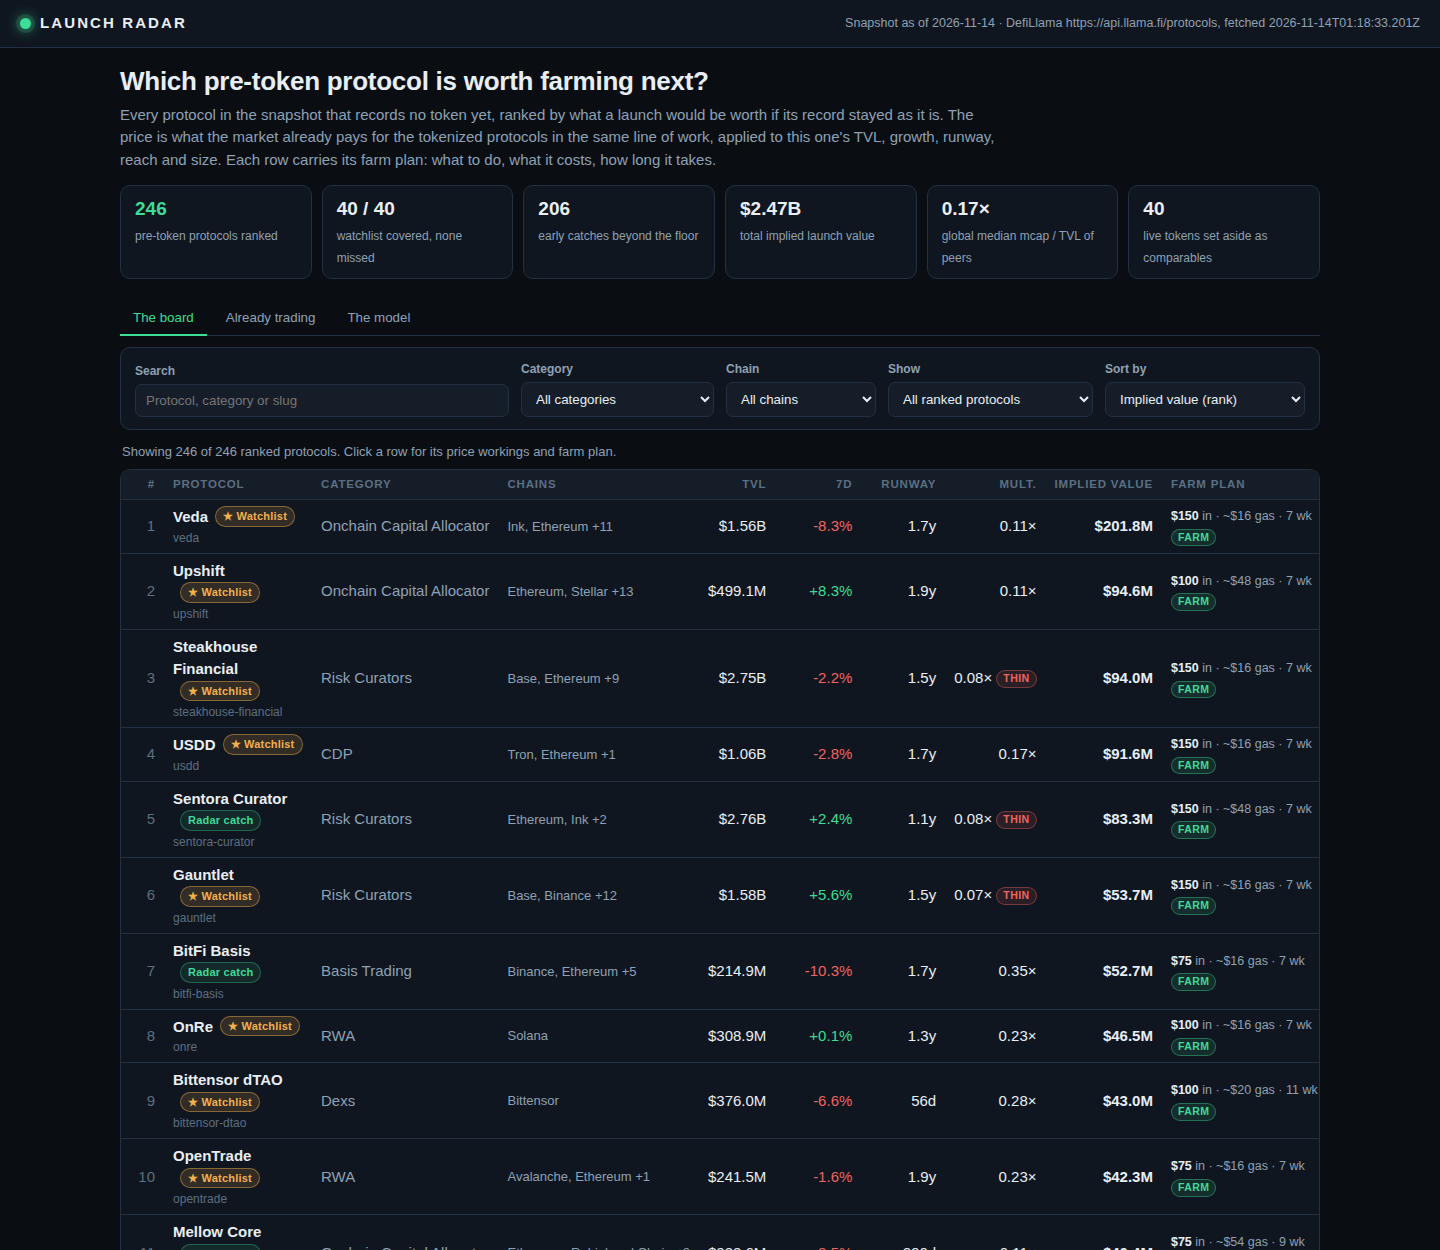
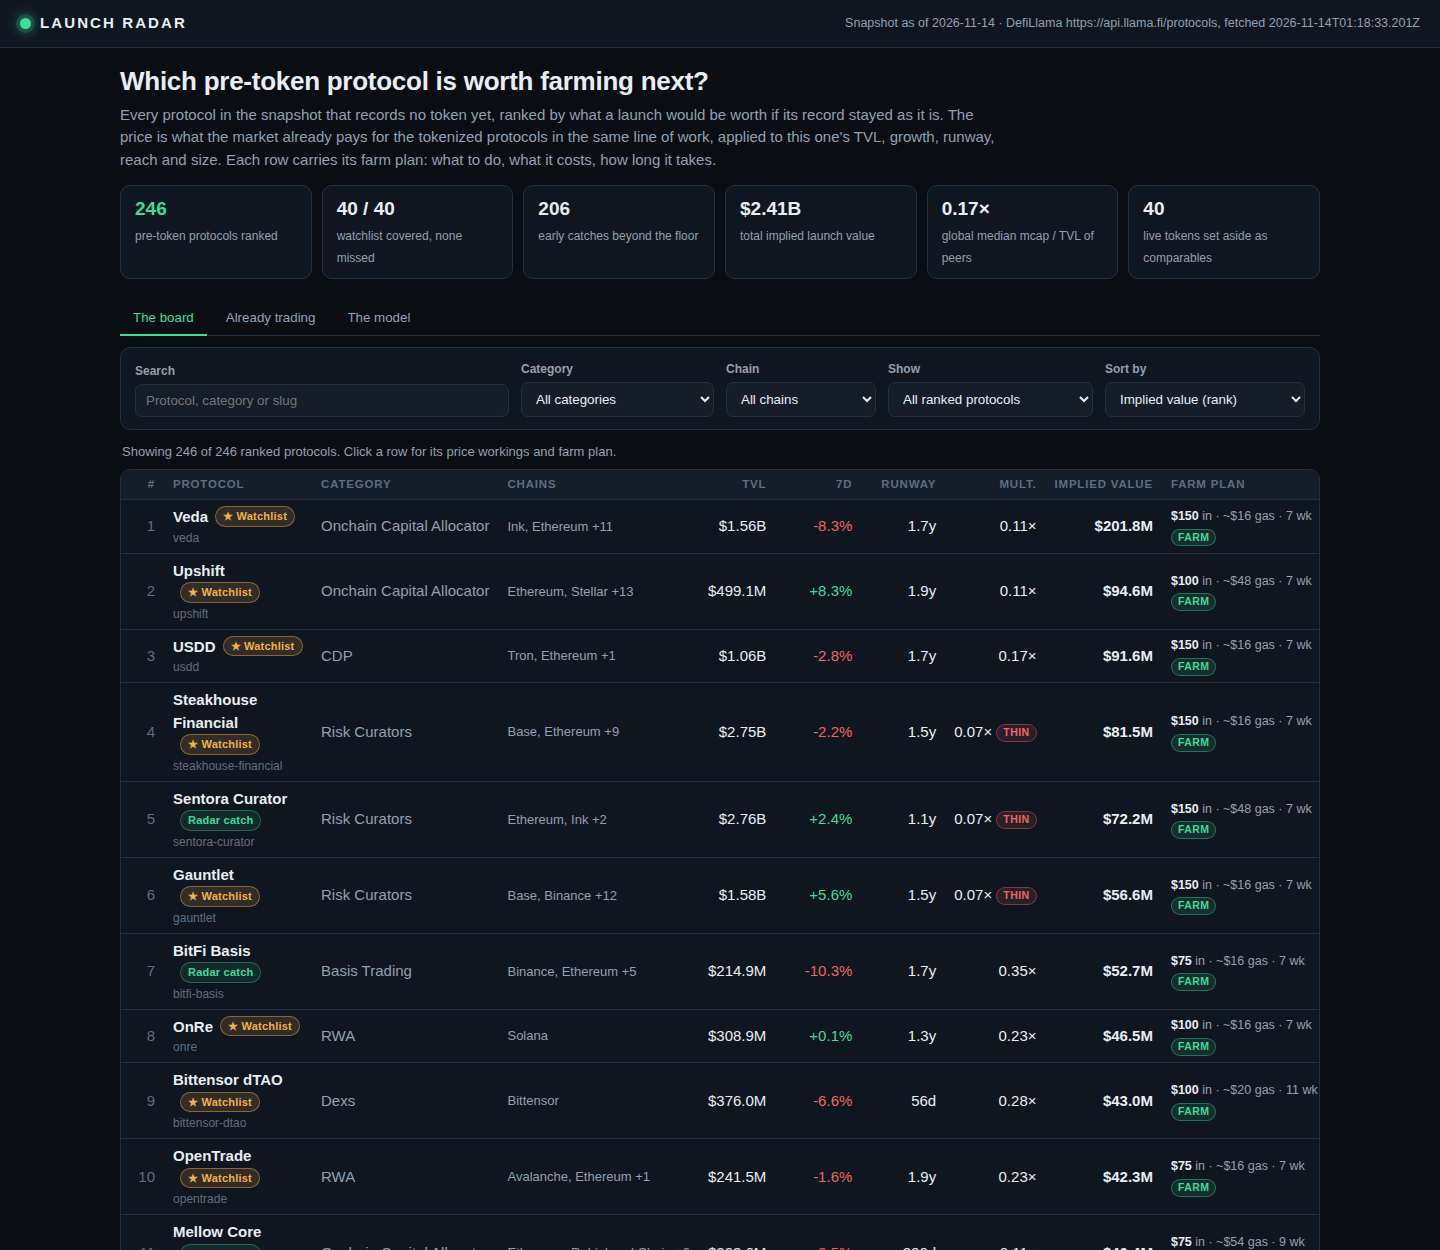
comps-5: thin-category neighbour pool widened from 8 to 12, validated on three seeded split sets (one never used for selection), dashboard prose and screenshots refreshed

diff --git a/lib/model.ts b/lib/model.ts
@@ -14,10 +14,11 @@
 //                count (shrink K = 6) and clamped to [0.03, 1.20]. A category with fewer than 3
 //                peers cannot carry its own median; comps-3 then priced it at the bare global
 //                median, so the board's largest rows rested on no local evidence at all.
-//                comps-4 prices a thin category from the 8 tokenized protocols nearest the
+//                comps-4 prices a thin category from the 12 tokenized protocols nearest the
 //                protocol in TVL, whatever they do — the market's price for a protocol's size
 //                is real evidence about a protocol of that size — blended half-and-half with
-//                the global median in log space.
+//                the global median in log space. (The pool was 8 when comps-4 shipped;
+//                comps-5 widened it to 12 — see the validation note below.)
 //   growth     = 1 + clamp(change_7d, -60, 120) / 100 x 0.5
 //   runway     = 0.78 + 0.44 x sqrt(min(age_days, 1460) / 1460): the longer a protocol has run
 //                with no token, the more usage a launch would capitalise (age unknown: the
@@ -38,6 +39,18 @@
 // the 24 seeded splits comps-3 was selected on AND on a second set of 24 splits it was never
 // selected against, without giving up rank correlation. Together they did (held-out mean
 // median |log10 error| 0.568/0.564 against comps-3's 0.582/0.588, split wins 16 and 19 of 24).
+// comps-5 changes exactly one thing: the thin-category neighbour pool widens from 8 to 12.
+// The change was fixed as a candidate before it was scored and was scored the comps-4 way,
+// harder (tools/evaluate3.mjs): it had to beat comps-4's mean held-out error on the splits
+// comps-4 was selected on AND on the confirmation set AND on a third set of 24 splits no model
+// had ever been selected against, winning at least 14, 13 and 13 of the splits without giving
+// up more than 0.01 of rank correlation on any set. It did (held-out mean median |log10 error|
+// 0.558/0.550/0.578 against comps-4's 0.568/0.564/0.587; split wins 15, 16 and 14 of 24). The
+// same test refused the trimmed-log estimator on top of comps-4, a steeper size slope, a
+// smaller shrink, a stronger neighbour blend, and dropping the snapshot's zero-cap protocols
+// from the peer set — a recorded cap of zero turns out to be market evidence, not a dead
+// record: removing those peers lost on every set, so they stay.
+//
 // The dashboard also keeps the whole field honest: every one of the snapshot's pre-token
 // protocols is accounted for — ranked, or set aside with the reason printed — and every farm
 // plan carries a verdict netted to the dollar (see farmVerdict below).
@@ -72,7 +85,7 @@ export interface Snapshot {
 }
 
 /** The model's version label: the dashboard names it. */
-export const MODEL_VERSION = 'comps-4';
+export const MODEL_VERSION = 'comps-5';
 
 /** How hard a thin category's median is pulled toward the global median. */
 export const SHRINK_K = 6;
@@ -169,7 +182,11 @@ export const PARAMS: ModelParams = {
   // tokenized protocols by TVL, blended with the global median. Together: held-out mean median
   // |log10 error| 0.568/0.564 against comps-3's 0.582/0.588; split wins 16/24 and 19/24.
   size_ref: 'category',
-  thin_neighbors: 8,
+  // comps-5 widens the neighbour pool from 8 to 12, scored the same way and harder
+  // (tools/evaluate3.mjs): it beat comps-4's mean held-out error on the selection set, the
+  // confirmation set AND a third set of splits never used for selection before (0.558/0.550/
+  // 0.578 against 0.568/0.564/0.587; split wins 15/16/14 of 24), rank correlation intact.
+  thin_neighbors: 12,
   thin_neighbor_blend: 0.5,
   estimator: 'median',
   exclude_zero_cap_peers: false,

diff --git a/dashboard/index.html b/dashboard/index.html
@@ -134,10 +134,14 @@
       A category with fewer than three tokenized peers cannot carry its own median. An earlier
       version of this model priced such rows at the bare global median, which left the board's
       largest rows — the thin-category giants — resting on no local evidence at all. Now a thin
-      row is priced from the eight tokenized protocols nearest it in TVL, whatever they do: the
+      row is priced from the twelve tokenized protocols nearest it in TVL, whatever they do: the
       market's price for a protocol's <em>size</em> is real evidence about a protocol of that
       size. Their median is blended half-and-half with the global median in log space, the row
-      is marked <em>thin</em>, and its detail view names the neighbours' median it used. Read a
+      is marked <em>thin</em>, and its detail view names the neighbours' median it used. The pool
+      was eight in the previous version of this model; widening it to twelve was put to the same
+      out-of-sample test before it shipped — three sets of 24 seeded splits, the third of them
+      never used to select anything before — and beat the eight-neighbour model on every set.
+      Read a
       thin row as a skip-grade price — a reason to look closer, not a number to size a farm by.</li>
       <li><strong>Every plan is netted to a verdict.</strong> A plan's capital is not a cost — it
       sits in the position and returns on unwind — so each plan is netted to what it actually

diff --git a/dashboard/app.js b/dashboard/app.js
@@ -289,7 +289,7 @@
     if (price && price.peers >= MODEL.min_peers && price.median_ratio != null) {
       medianNote = 'median ' + price.median_ratio.toFixed(2) + '× across ' + price.peers + ' tokenized peers, shrunk toward the global ' + DATA.global_multiple.toFixed(2) + '×';
     } else if (row.neighbor_ratio != null) {
-      medianNote = 'its category is too thin to carry a median, so this blends the 8 tokenized protocols nearest it in TVL (their median ' +
+      medianNote = 'its category is too thin to carry a median, so this blends the 12 tokenized protocols nearest it in TVL (their median ' +
         row.neighbor_ratio.toFixed(2) + '×) with the global median ' + DATA.global_multiple.toFixed(2) + '×, half and half in log space';
     } else {
       medianNote = 'no tokenized peers near it in size either: priced at the global median ' + DATA.global_multiple.toFixed(2) + '×';
